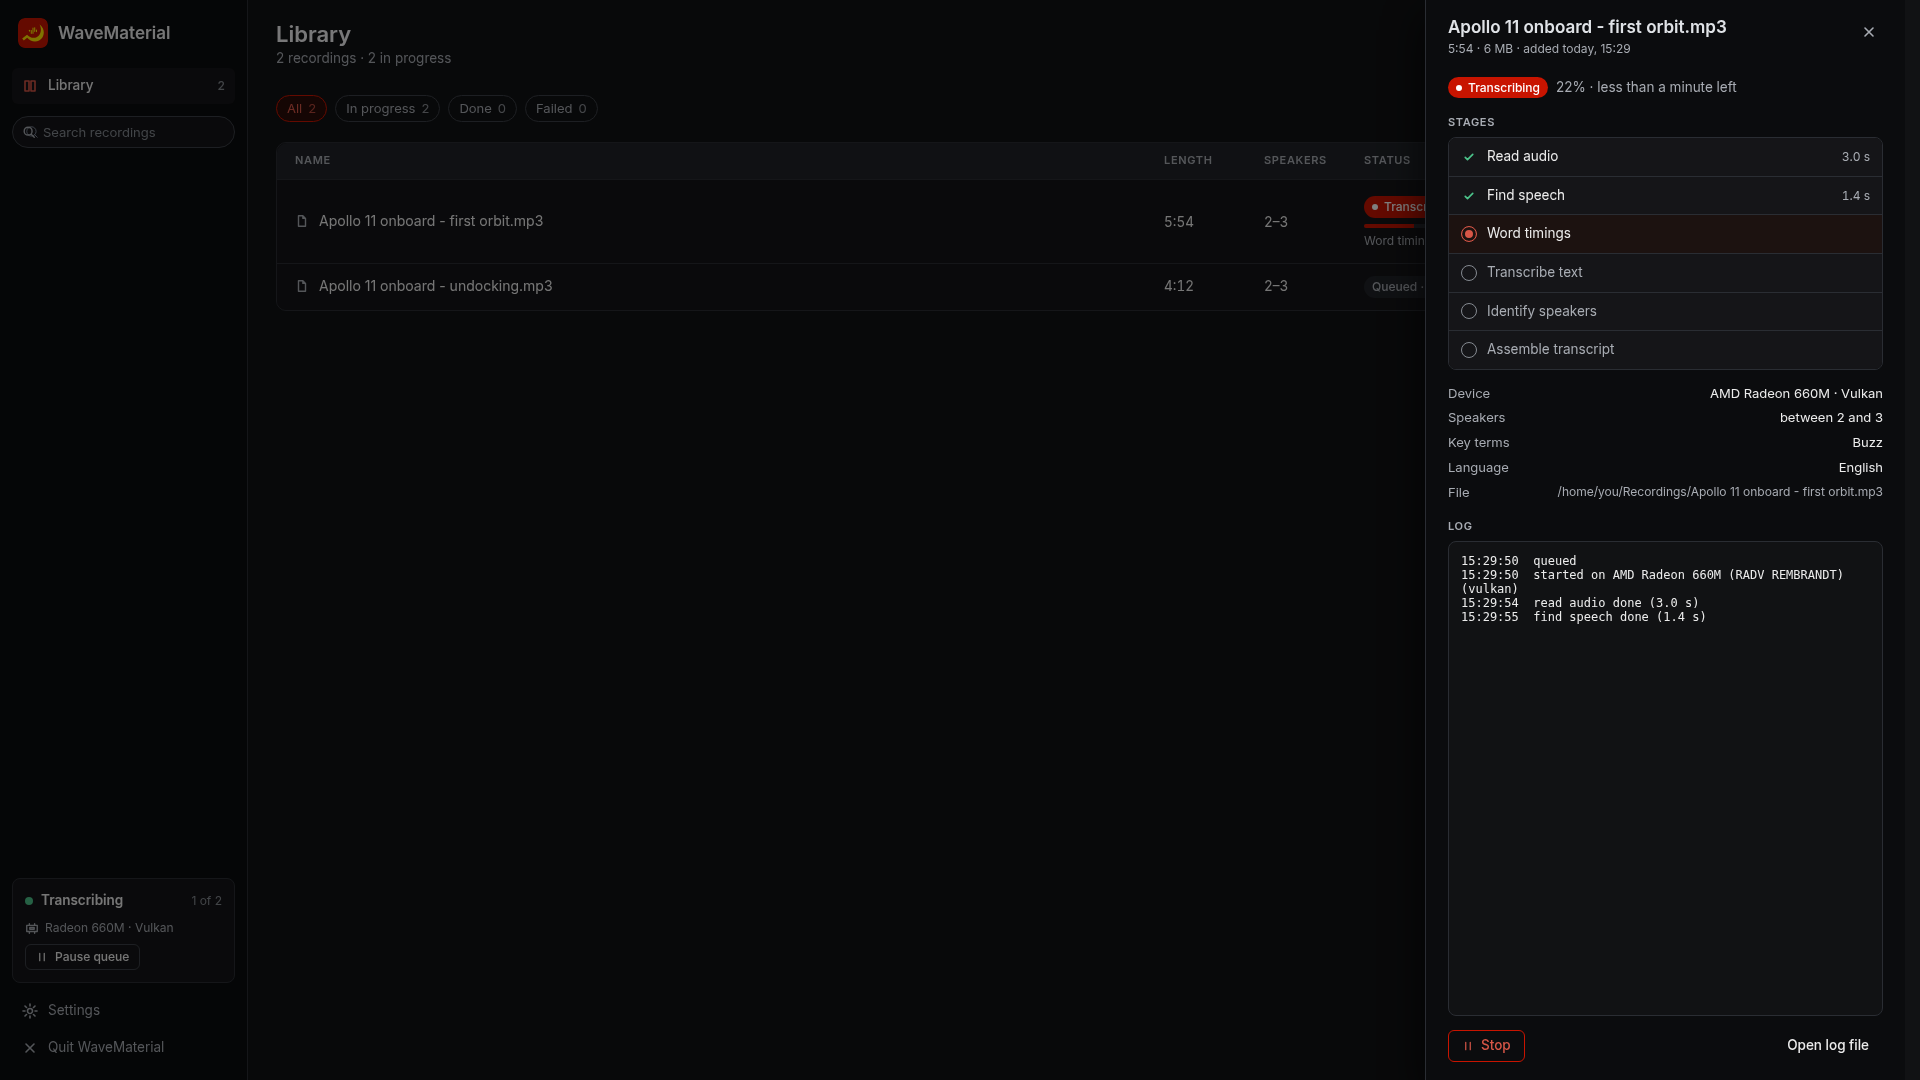
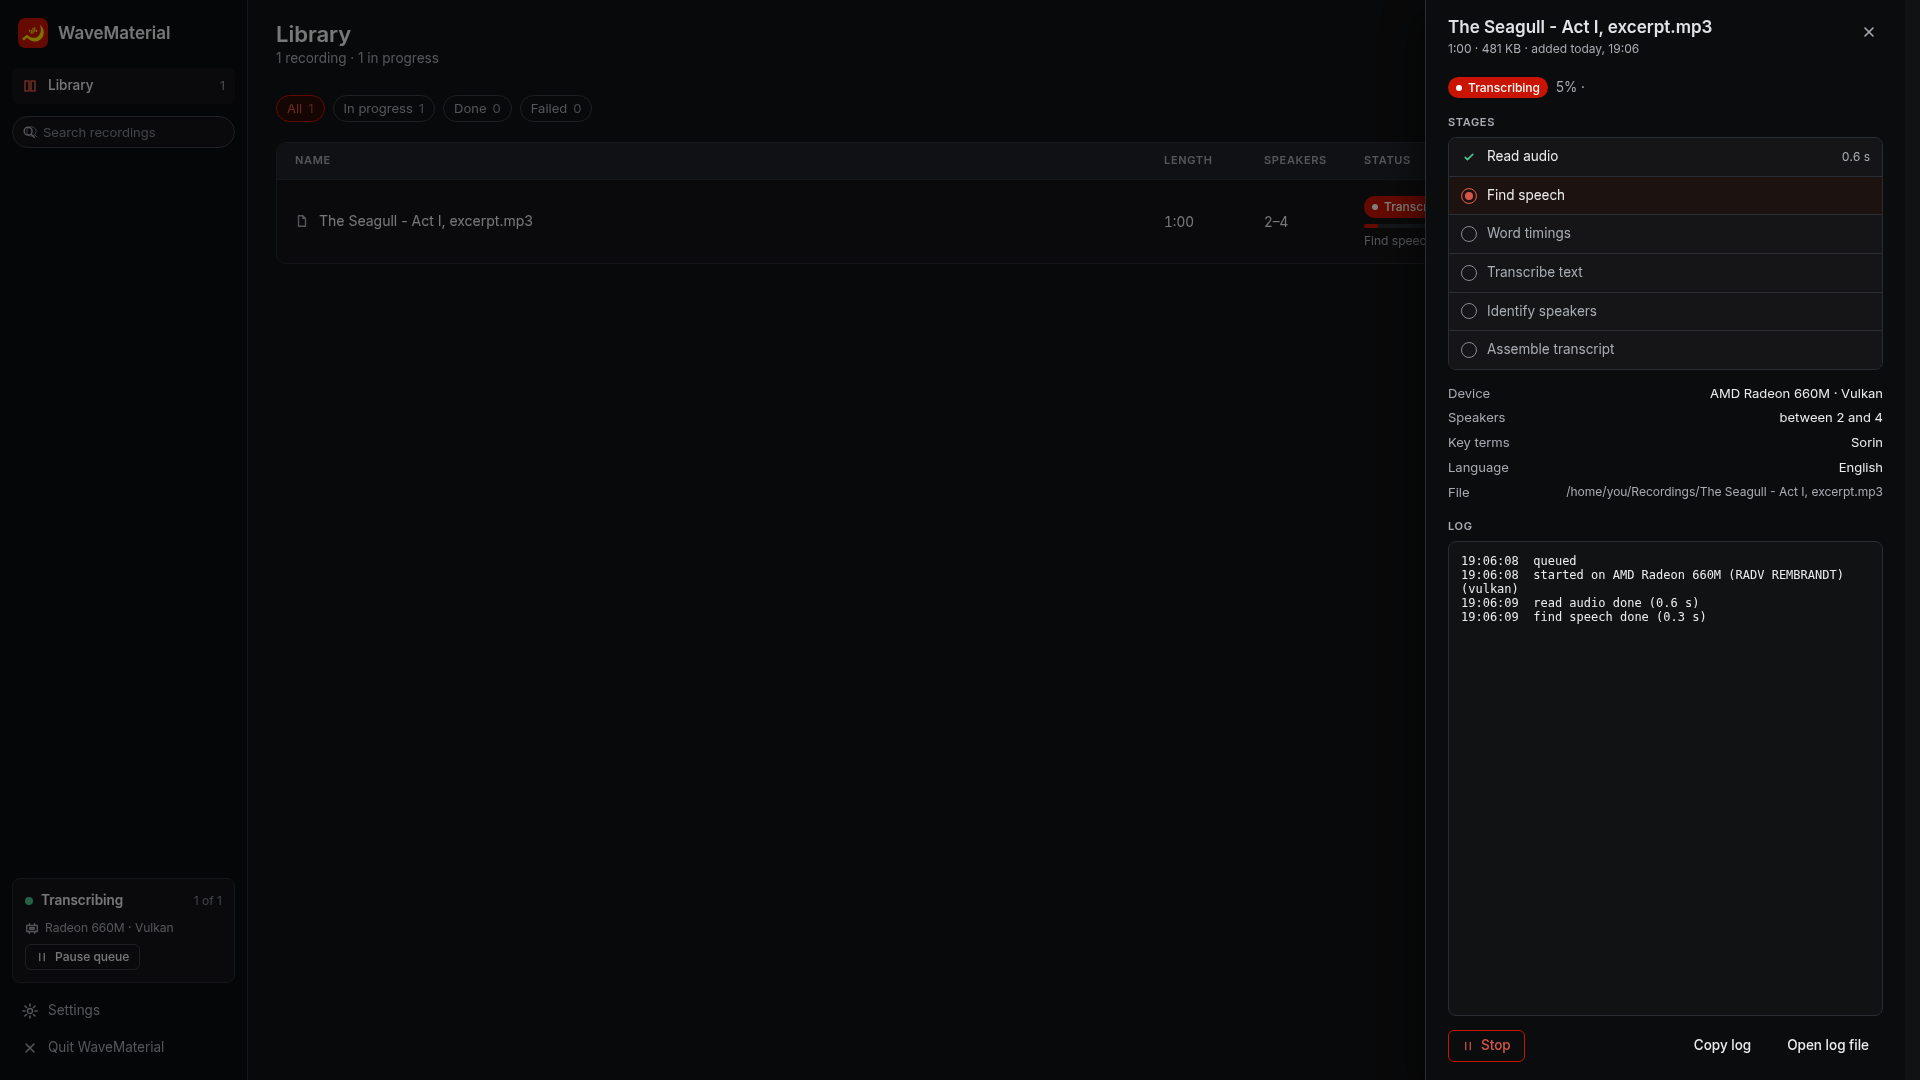
docs(usage): 1.1.0 screenshots: first run, Copy log, Remove models, Self-update

diff --git a/USAGE.md b/USAGE.md
@@ -232,6 +232,8 @@ with git.
 
 ![Settings, lower: models, updates, and About](demo/usage/26-settings-lower.png)
 
+![Settings when an update is available: Self-update, Manual update, and what each does](demo/usage/28-settings-update.png)
+
 ## Licences and credits
 
 **Licences and credits** (from Settings) shows WaveMaterial's licence, the credits each
